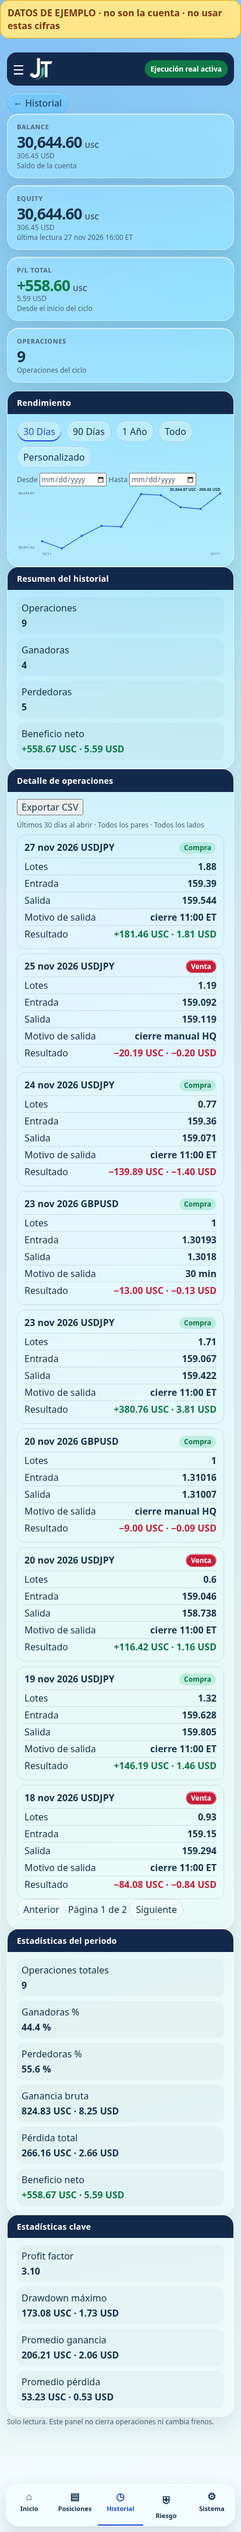
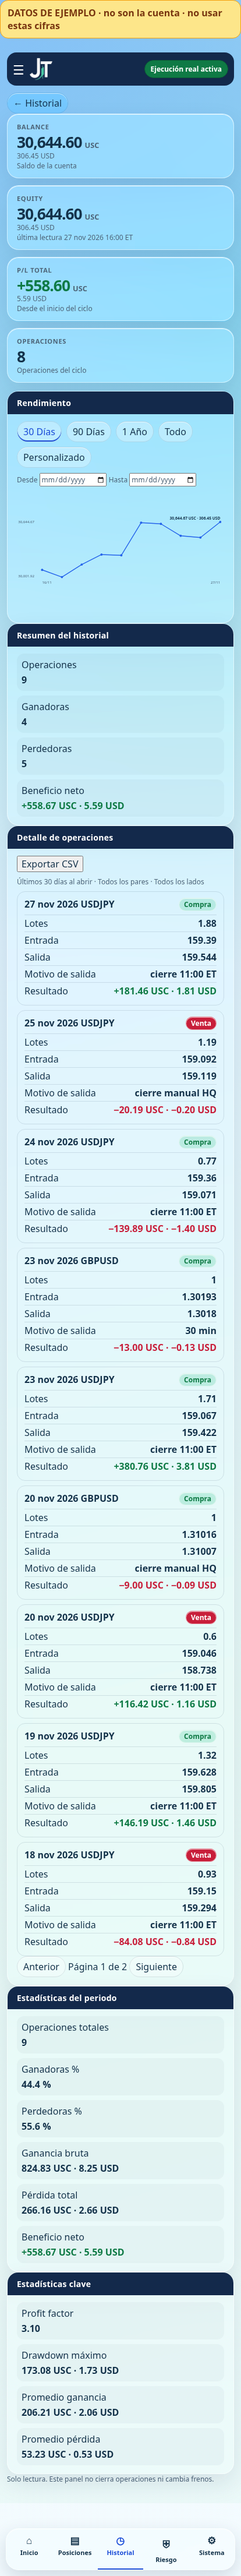
Historial: el deal 440549 y la curva con alto (#115)
El panel lee las mismas flags que el backfill. Un cierre del cache cuyo ticket no está en una fila visible se añade, sin duplicar. La 440549 queda como cierre manual HQ. El SVG de Rendimiento lleva ancho y alto para no quedar en cero.

diff --git a/ui/static/liquid/glass.css b/ui/static/liquid/glass.css
@@ -100,6 +100,7 @@ h2.with-link .linkish{color:#fff;padding:0}
 .check{display:flex;justify-content:space-between;gap:8px;padding:8px 0;border-top:1px solid var(--lg-stroke)}
 .tabs{display:none}
 svg{width:100%;height:auto;display:block}
+svg.equity{width:100%;height:auto;aspect-ratio:640/220;min-height:220px}
 .chart-note{font-size:12px;font-weight:700;margin-top:6px}
 @media (max-width:900px){
 .shell{grid-template-columns:minmax(0,1fr)}

diff --git a/execution/combo_history.py b/execution/combo_history.py
@@ -21,6 +21,12 @@ NY = ZoneInfo("America/New_York")
 _MATCH_SECONDS = 120
 # Tickets closed before #104 stored no exit_reason. Motivo comes from Floor logs, not from Exness
 # (deal.reason was empty). Do not invent fix_30m: 382026 was a manual HQ close.
+# HQ confirmed the 25 Nov 2026 close of position 440549 was manual. The deal reason was empty.
+# This is the only ticket forced here. Any other ticket keeps the flag's own reason.
+TICKET_EXIT_OVERRIDE = {"440549": "hq_manual"}
+CLOSED_DEALS_FLAG = "exness_closed_deals"
+LONDON_FLAG_KEY = "combo_lon_2026-11-25"
+
 KNOWN_EXIT_REASONS = {
     "341984": "london_1100",
     "357063": "london_1100",
@@ -621,6 +627,126 @@ def remember_exit(state, ticket=None, *, key=None, broker=None, deals=None, get_
     return fill_state_from_deals(state, deals or (), key=key)
 
 
+def _json_deals(deals):
+    rows = []
+    for deal in deals or ():
+        if not isinstance(deal, dict):
+            continue
+        rows.append({
+            "type": deal.get("type"),
+            "position_id": str(deal.get("position_id") or "").strip() or None,
+            "price": deal.get("price"),
+            "profit": deal.get("profit"),
+            "instrument": deal.get("instrument"),
+            "direction": deal.get("direction"),
+            "volume": deal.get("volume"),
+            "create_time": deal.get("create_time"),
+            "event_time": deal.get("event_time"),
+            "open_time": deal.get("open_time"),
+        })
+    return rows
+
+
+def store_closed_deals(store, deals):
+    """The panel reads this cache. It does not call Exness itself."""
+    if store is None or not callable(getattr(store, "set_flag", None)):
+        return
+    store.set_flag(CLOSED_DEALS_FLAG, json.dumps(_json_deals(deals), sort_keys=True))
+
+
+def log_london_flag(store):
+    """One non-secret line for the 25 Nov flag, even when it is not pending."""
+    raw = None
+    try:
+        raw = store.get_flag(LONDON_FLAG_KEY) if store is not None else None
+    except Exception:  # noqa: BLE001
+        raw = None
+    state = _load_state(raw) if isinstance(raw, str) else None
+    if not state:
+        LOG.info("component=session_combo event=HISTORY_FLAG key=%s status=absent exited=none "
+                 "side=none symbol=none has_ticket=no has_pnl=no opened_at=none", LONDON_FLAG_KEY)
+        return
+    LOG.info("component=session_combo event=HISTORY_FLAG key=%s status=%s exited=%s side=%s symbol=%s "
+             "has_ticket=%s has_pnl=%s opened_at=%s",
+             LONDON_FLAG_KEY, state.get("status"), state.get("exited"),
+             state.get("side") or "none", state.get("symbol") or "none",
+             "no" if _no_ticket(state) else "yes",
+             "yes" if _present(state.get("pnl")) else "no",
+             state.get("opened_at") or "none")
+
+
+def _reason_on_day(flags, day):
+    if not isinstance(flags, dict) or day is None:
+        return None
+    for prefix in ("combo_lon_", "combo_fix_"):
+        raw = flags.get(prefix + day.isoformat())
+        state = _load_state(raw) if isinstance(raw, str) else None
+        reason = state.get("exit_reason") if isinstance(state, dict) else None
+        if isinstance(reason, str) and reason.strip():
+            return reason.strip()
+    return None
+
+
+def extra_rows_from_deals(flags, shown, now):
+    """Closed deals whose ticket is not already a visible flag row. One ticket, one row."""
+    raw = flags.get(CLOSED_DEALS_FLAG) if isinstance(flags, dict) else None
+    try:
+        deals = json.loads(raw) if isinstance(raw, str) else []
+    except (TypeError, ValueError):
+        deals = []
+    if not isinstance(deals, list):
+        return []
+    grouped = {}
+    for deal in deals:
+        if not isinstance(deal, dict):
+            continue
+        ticket = str(deal.get("position_id") or "").strip()
+        if ticket:
+            grouped.setdefault(ticket, []).append(deal)
+    taken = {str(item) for item in shown or () if item}
+    rows = []
+    for ticket, items in grouped.items():
+        if ticket in taken:
+            continue
+        opens = [item for item in items if item.get("type") == "open"]
+        closes = [item for item in items if item.get("type") == "close"]
+        if not closes:
+            continue
+        closes.sort(key=lambda item: _deal_time(item) or datetime.min.replace(tzinfo=timezone.utc))
+        closed = _deal_time(closes[-1])
+        if closed is None or closed > now:
+            continue
+        day = closed.astimezone(NY).date()
+        if day < HISTORY_START:
+            continue
+        opened = _deal_time(opens[0]) if opens else None
+        sample = opens[0] if opens else closes[-1]
+        symbol = str(sample.get("instrument") or "").strip().upper()
+        if len(symbol) != 6 or not symbol.isalpha():
+            continue
+        amounts = []
+        for deal in closes:
+            amount = profit_amount(deal.get("profit"))
+            if amount is None:
+                amounts = None
+                break
+            amounts.append(amount)
+        reason = TICKET_EXIT_OVERRIDE.get(ticket) or _reason_on_day(flags, day) or "cierre_manual"
+        rows.append({
+            "key": "deal_" + ticket, "kind": "london" if symbol == LONDON_SYMBOL else "fix",
+            "day": day, "status": "done", "symbol": symbol,
+            "_side": _deal_side(opens[0].get("direction")) if opens else None,
+            "position_id": ticket,
+            "volume": _dec(opens[0].get("volume")) if opens else None,
+            "opened_at": opened, "exit_at": closed, "exited": True,
+            "entry": _dec(opens[0].get("price")) if opens else None,
+            "exit_price": _dec(closes[-1].get("price")),
+            "exit_reason": reason,
+            "pnl": None if not amounts else sum(amounts, Decimal(0)),
+        })
+    return rows
+
+
 def backfill_combo_history(broker, *, now=None, get_json=None):
     """Idempotent GET-only backfill of closed combo flags. Never raises to the caller."""
     result = {"updated": 0, "pending": 0, "fetched": False}
@@ -628,6 +754,7 @@ def backfill_combo_history(broker, *, now=None, get_json=None):
         store = getattr(broker, "flag_store", None)
         if store is None or not callable(getattr(store, "get_flag", None)):
             return result
+        log_london_flag(store)
         if now is None:
             clock = getattr(broker, "_clock", None)
             now = clock() if callable(clock) else datetime.now(timezone.utc)
@@ -726,6 +853,15 @@ def backfill_combo_history(broker, *, now=None, get_json=None):
             _pending_line(key, state)
         result["pending"] = len(pending)
         _log("ok", updated=result["updated"], pending=result["pending"])
+        try:
+            client = history_client(broker)
+            if client is not None:
+                start = datetime(HISTORY_START.year, HISTORY_START.month, HISTORY_START.day, tzinfo=timezone.utc)
+                end = now + timedelta(hours=1)
+                cached = fetch_deals(client, start, end, get_json=get_json)
+                store_closed_deals(store, cached)
+        except Exception as exc:  # noqa: BLE001 - the panel keeps the previous cache
+            _log("skip", reason="cache_unread", error_type=type(exc).__name__)
         return result
     except Exception as exc:  # noqa: BLE001 - a history miss must not break the session
         _log("failed", reason="read_failed", error_type=type(exc).__name__,

diff --git a/test_live_historial.py b/test_live_historial.py
@@ -1,0 +1,113 @@
+"""Live panel path: flags in the Exness state DB, no stored curve, deals only in the cache the backfill writes."""
+from datetime import datetime, timezone
+import json
+import sqlite3
+import tempfile
+import unittest
+from pathlib import Path
+
+from ui.liquid.page import load
+from ui.liquid.render import fragment
+
+NOW = datetime(2026, 11, 27, 21, 0, tzinfo=timezone.utc)
+
+# Real Exness deals. Times are ET converted to UTC (EST).
+DEALS = (
+    ("341984", "USDJPY", "sell", "0.93", "159.15", "159.294", "2026-11-18T09:04:25+00:00", "2026-11-18T16:00:13+00:00", "-84.08"),
+    ("357063", "USDJPY", "buy", "1.32", "159.628", "159.805", "2026-11-19T07:05:08+00:00", "2026-11-19T16:00:07+00:00", "146.19"),
+    ("375978", "USDJPY", "sell", "0.6", "159.046", "158.738", "2026-11-20T07:32:23+00:00", "2026-11-20T16:00:08+00:00", "116.42"),
+    ("382026", "GBPUSD", "buy", "1", "1.31016", "1.31007", "2026-11-20T16:00:13+00:00", "2026-11-20T16:05:17+00:00", "-9"),
+    ("409759", "USDJPY", "buy", "1.71", "159.067", "159.422", "2026-11-23T08:02:04+00:00", "2026-11-23T16:00:03+00:00", "380.76"),
+    ("415945", "GBPUSD", "buy", "1", "1.30193", "1.3018", "2026-11-23T16:00:09+00:00", "2026-11-23T16:31:11+00:00", "-13"),
+    ("424576", "USDJPY", "buy", "0.77", "159.36", "159.071", "2026-11-24T07:00:08+00:00", "2026-11-24T16:00:03+00:00", "-139.89"),
+    ("440549", "USDJPY", "sell", "1.19", "159.092", "159.119", "2026-11-25T07:30:39+00:00", "2026-11-25T16:07:49+00:00", "-20.19"),
+    ("473902", "USDJPY", "buy", "1.88", "159.39", "159.544", "2026-11-27T07:38:54+00:00", "2026-11-27T16:00:08+00:00", "181.46"),
+)
+
+REASONS = {"382026": "hq_manual", "440549": "hq_manual"}
+
+
+def _flag(ticket, symbol, side, lots, entry, exit_price, opened, closed, pnl):
+    kind = "combo_lon_" if symbol == "USDJPY" else "combo_fix_"
+    day = opened[:10]
+    reason = REASONS.get(ticket, "london_1100" if symbol == "USDJPY" else "fix_30m")
+    side_name = "SHORT" if side == "sell" else "LONG"
+    return kind + day, json.dumps({
+        "status": "done", "exited": True, "symbol": symbol, "side": side_name,
+        "position_id": ticket, "volume": lots, "entry": entry, "exit_price": exit_price,
+        "pnl": pnl, "exit_reason": reason, "opened_at": opened, "exit_at": closed,
+    })
+
+
+def _deal(ticket, symbol, side, lots, entry, exit_price, opened, closed, pnl):
+    return [
+        {"type": "open", "position_id": ticket, "instrument": symbol, "direction": side,
+         "volume": lots, "price": entry, "profit": {"amount": "0", "currency": "USC"},
+         "create_time": opened},
+        {"type": "close", "position_id": ticket, "instrument": symbol,
+         "direction": "buy" if side == "sell" else "sell",
+         "volume": lots, "price": exit_price, "profit": {"amount": pnl, "currency": "USC"},
+         "create_time": closed},
+    ]
+
+
+def _store(path, rows):
+    con = sqlite3.connect(path)
+    con.execute("CREATE TABLE flags (key TEXT PRIMARY KEY, value TEXT NOT NULL)")
+    con.executemany("INSERT INTO flags(key, value) VALUES(?, ?)", rows)
+    con.commit()
+    con.close()
+
+
+class LiveEightRowsTests(unittest.TestCase):
+    def _view(self, deals):
+        folder = tempfile.TemporaryDirectory()
+        self.addCleanup(folder.cleanup)
+        state = Path(folder.name) / "exness_state.db"
+        flags = []
+        cached = []
+        for item in DEALS:
+            if item[0] != "440549":
+                key, raw = _flag(*item)
+                flags.append((key, raw))
+            cached.extend(_deal(*item))
+        # The live 25 Nov flag is present and is not a shown row. No ticket, no P/L, no opened_at.
+        flags.append(("combo_lon_2026-11-25", json.dumps({
+            "status": "done", "exited": False,
+        })))
+        flags.append(("exness_brake_start", "30086"))
+        flags.append(("exness_launch_start", "2026-11-16T21:00:00+00:00"))
+        flags.append(("exness_closed_deals", json.dumps(cached)))
+        _store(state, flags)
+        env = {
+            "AI_FLOOR_BROKER": "exness",
+            "AI_FLOOR_EXNESS_STATE_DB_PATH": str(state),
+            "AI_FLOOR_DB_PATH": str(Path(folder.name) / "missing.db"),
+        }
+        return load(env=env, now=NOW)
+
+    def test_the_live_shape_shows_nine_rows_and_a_sized_chart(self):
+        view = self._view(DEALS)
+        rows = view["history"]["rows"]
+        tickets = [row["ticket"] for row in rows]
+        self.assertEqual(tickets.count("440549"), 1)
+        self.assertEqual(len(rows), 9)
+        self.assertEqual(len(set(tickets)), 9)
+        self.assertIn("558.67", view["history"]["stats"]["net"])
+        nov25 = next(row for row in rows if row["ticket"] == "440549")
+        self.assertEqual(nov25["reason"], "cierre manual HQ")
+        self.assertEqual(nov25["entry"], "159.092")
+        self.assertEqual(nov25["exit_price"], "159.119")
+        points = view["curve"]["ranges"]["30"]["points"]
+        self.assertGreaterEqual(len(points), 2)
+        html = fragment(view, section="Historial")
+        self.assertIn('height="220"', html)
+        self.assertIn("<svg", html)
+        self.assertNotIn('height=""', html)
+
+    def test_a_flagged_ticket_is_not_added_twice(self):
+        view = self._view(DEALS)
+        tickets = [row["ticket"] for row in view["history"]["rows"]]
+        self.assertEqual(tickets.count("341984"), 1)
+        self.assertEqual(tickets.count("473902"), 1)
+        self.assertEqual(len(tickets), len(set(tickets)))

diff --git a/ui/liquid/model.py b/ui/liquid/model.py
@@ -911,6 +911,13 @@ def build_dashboard(*, env=None, now=None, flags=None, account_reader=None, book
     if total_amount is None:
         total_text, total_tone = _gap(now), ""
     legs = _legs(flags, now)
+    from execution.combo_history import extra_rows_from_deals
+    shown = {leg["position_id"] for leg in legs
+             if leg.get("position_id") and _closed_leg(leg, now) and _shown_in_history(leg)}
+    added = extra_rows_from_deals(flags, shown, now)
+    for row in added:
+        row["side"] = _side(row.pop("_side", None))
+    legs = legs + added
     book = _book_from_snapshot(snap, book)
     if book is None:
         book = _book_from_marks(flags, now)
@@ -1002,7 +1009,7 @@ def build_dashboard(*, env=None, now=None, flags=None, account_reader=None, book
     title = LABEL if broker_is_exness(env) else "Jt Trading Floor"
     armed = real_execution_armed(env) is True
     trades = "0" if clock.get("waiting") is not False else str(clock.get("trades") or 0)
-    return {
+    view = {
         "title": title, "version": VERSION, "safety": live_badge(env) or OFF_SAFETY,
         "live": armed, "safety_short": "Ejecución real activa" if armed else "Ejecución real desactivada",
         "clock": long_date_et(now), "now_epoch": str(int(now.timestamp())), "currency": currency,
@@ -1023,3 +1030,26 @@ def build_dashboard(*, env=None, now=None, flags=None, account_reader=None, book
                    "state_line": _brake_state_line(flags, brakes, known, currency)},
         "history": _history(legs, currency, now), "system": system, "unavailable": unavailable, "banner": None,
     }
+    return _log_history_view(view, added)
+
+
+_view_logged = False
+
+
+def _log_history_view(view, added):
+    """Once per process. No amounts. The next deploy compares this line with the nine real tickets."""
+    global _view_logged
+    if _view_logged:
+        return view
+    _view_logged = True
+    import logging
+    rows = (view.get("history") or {}).get("rows") or []
+    tickets = [row.get("ticket") for row in rows if row.get("ticket") and row.get("ticket") != MISSING]
+    ranges = (view.get("curve") or {}).get("ranges") or {}
+    points = (ranges.get("30") or {}).get("points") or []
+    logging.getLogger("ai_floor.session_combo").info(
+        "component=session_combo event=HISTORY_VIEW rows=%s tickets=%s curve_points=%s source=exness_flags",
+        len(rows), ",".join(tickets), len(points))
+    logging.getLogger("ai_floor.session_combo").info(
+        "component=session_combo event=HISTORY_DEALS_MERGE added=%s", len(added))
+    return view

diff --git a/test_combo_history.py b/test_combo_history.py
@@ -510,6 +510,21 @@ class FlatFlagBackfillTests(unittest.TestCase):
         self.assertEqual(result["pending"], 0)
         self.assertFalse(result["fetched"])
 
+    def test_the_nov_25_flag_is_logged_even_when_it_is_not_pending(self):
+        store = MemoryFlags()
+        put(store, "combo_lon_2026-11-25", {"status": "done", "exited": False})
+        broker = FakeBroker(store, FakeHistoryClient([]))
+        with self.assertLogs("ai_floor.session_combo", level="INFO") as logs:
+            backfill_combo_history(broker, now=datetime(2026, 11, 27, 21, 0, tzinfo=timezone.utc))
+        text = "\n".join(logs.output)
+        self.assertIn("event=HISTORY_FLAG", text)
+        self.assertIn("key=combo_lon_2026-11-25", text)
+        self.assertIn("status=done", text)
+        self.assertIn("has_ticket=no", text)
+        self.assertIn("has_pnl=no", text)
+        self.assertIn("opened_at=none", text)
+        self.assertIsNotNone(store.get_flag("exness_closed_deals"))
+
     def test_missing_prices_are_filled_and_stored_prices_are_not_blanked(self):
         store = MemoryFlags()
         key = "combo_lon_2026-11-23"

diff --git a/ui/liquid/render.py b/ui/liquid/render.py
@@ -79,7 +79,7 @@ def _chart(points):
     label = _e(points[-1].get("text") or points[-1].get("y") or "")
     label_y = Decimal(14)
     return (
-        f'<svg viewBox="0 0 {width} {height}" role="img" aria-label="Curva de equity">'
+        f'<svg class="equity" width="{width}" height="{height}" viewBox="0 0 {width} {height}" role="img" aria-label="Curva de equity">'
         f'<defs><linearGradient id="lg-area" x1="0" y1="0" x2="0" y2="1">'
         f'<stop offset="0" stop-color="#2563eb" stop-opacity="0.35"/>'
         f'<stop offset="1" stop-color="#2563eb" stop-opacity="0.02"/></linearGradient></defs>'

diff --git a/docs/STATUS.md b/docs/STATUS.md
@@ -1,6 +1,8 @@
 # STATUS — AI Trading Floor V2
 
-_Última actualización: 2026-11-28 (rama `cursor/historial-live-curve-385b`, sobre `62188b0`). El Historial se ordena por la hora de cierre, la más reciente primero, y desempata por ticket. Si falta entrada, salida, lado o lotes y hay ticket, el backfill los rellena del deal y no borra un precio ya guardado. La curva arranca en el balance de inicio del ciclo (30086 en la vista previa). Sin merge, sin deploy, sin Render._
+_Última actualización: 2026-11-28 (rama `cursor/historial-deals-chart-385b`, sobre `15da7c4`). El panel lee las mismas flags que el backfill escribe. Un cierre de Exness que ninguna fila visible ya muestra se añade desde la copia de deals. La 440549 sale como cierre manual HQ. La curva lleva alto propio para que no quede en cero. Sin merge, sin deploy, sin Render._
+
+_Anterior: 2026-11-28 (rama `cursor/historial-live-curve-385b`, sobre `62188b0`). El Historial se ordena por la hora de cierre, la más reciente primero, y desempata por ticket. Si falta entrada, salida, lado o lotes y hay ticket, el backfill los rellena del deal y no borra un precio ya guardado. La curva arranca en el balance de inicio del ciclo (30086 en la vista previa). Sin merge, sin deploy, sin Render._
 
 _Anterior: 2026-11-28 (rama `cursor/historial-live-curve-385b`, sobre `62188b0`). Un `combo_lon_` ya cerrado con el lado o el par mal guardados se cruza si ese día ET hay un solo cierre USDJPY. Un Fix que no llegó a abrirse no queda pendiente. Cada pendiente deja una línea sin importes. Sin serie guardada, Rendimiento suma el P/L realizado desde el balance de inicio del ciclo. Sin merge, sin deploy, sin Render._
 

diff --git a/CHANGELOG_AGENT.md b/CHANGELOG_AGENT.md
@@ -1,5 +1,12 @@
 # Agent Changelog
 
+## 2026-11-28 — la 440549 entra desde los deals, y la curva tiene alto
+
+- El Historial sigue saliendo de las flags. Un cierre del cache `exness_closed_deals` cuyo ticket no está en una fila visible se añade. No se duplica. La 440549, confirmada por HQ, queda `hq_manual` («cierre manual HQ»). Si no hay motivo de ese día, el texto es «cierre manual».
+- Al arrancar, el backfill deja una línea del flag `combo_lon_2026-11-25` (sin importes) y refresca el cache de deals. El panel escribe una vez `HISTORY_VIEW` y `HISTORY_DEALS_MERGE`.
+- El SVG de Rendimiento lleva ancho y alto. Sin eso, `height:auto` lo dejaba en cero dentro del panel. Si no hay puntos, el texto sigue siendo «sin datos».
+- Sin merge y sin deploy.
+
 ## 2026-11-28 — Historial por hora de cierre, y precios que no se borran
 
 - Las filas se ordenan por la hora de cierre, la más reciente primero, en todas las páginas. Si dos cierran a la vez, queda arriba el ticket mayor.

diff --git a/docs/phases/phase-10.md b/docs/phases/phase-10.md
@@ -1,5 +1,7 @@
 # Fase 10 — Command Center / Display V2
 
+**Adenda 2026-11-28 (presentación, no recertifica):** un deal cerrado cuyo ticket no está en una fila visible se añade desde el cache de deals. La 440549 se muestra como cierre manual HQ. La gráfica de Rendimiento tiene alto propio. No cambia el estado CERTIFIED ni Render.
+
 **Adenda 2026-11-28 (presentación, no recertifica):** el Historial se ordena por la hora de cierre, la más reciente primero, y desempata por ticket. Un ticket al que le faltan entrada, salida, lado o lotes se completa con el deal, sin pisar un precio ya guardado. No cambia el estado CERTIFIED ni Render.
 
 **Adenda 2026-11-28 (presentación, no recertifica):** un Londres ya cerrado con el lado o el par distintos se cruza si ese día hay un solo cierre USDJPY. Lo que no llegó a abrirse no queda pendiente. Sin serie guardada, la gráfica de Rendimiento sale del P/L realizado y del balance de inicio del ciclo. No cambia el estado CERTIFIED ni Render.
